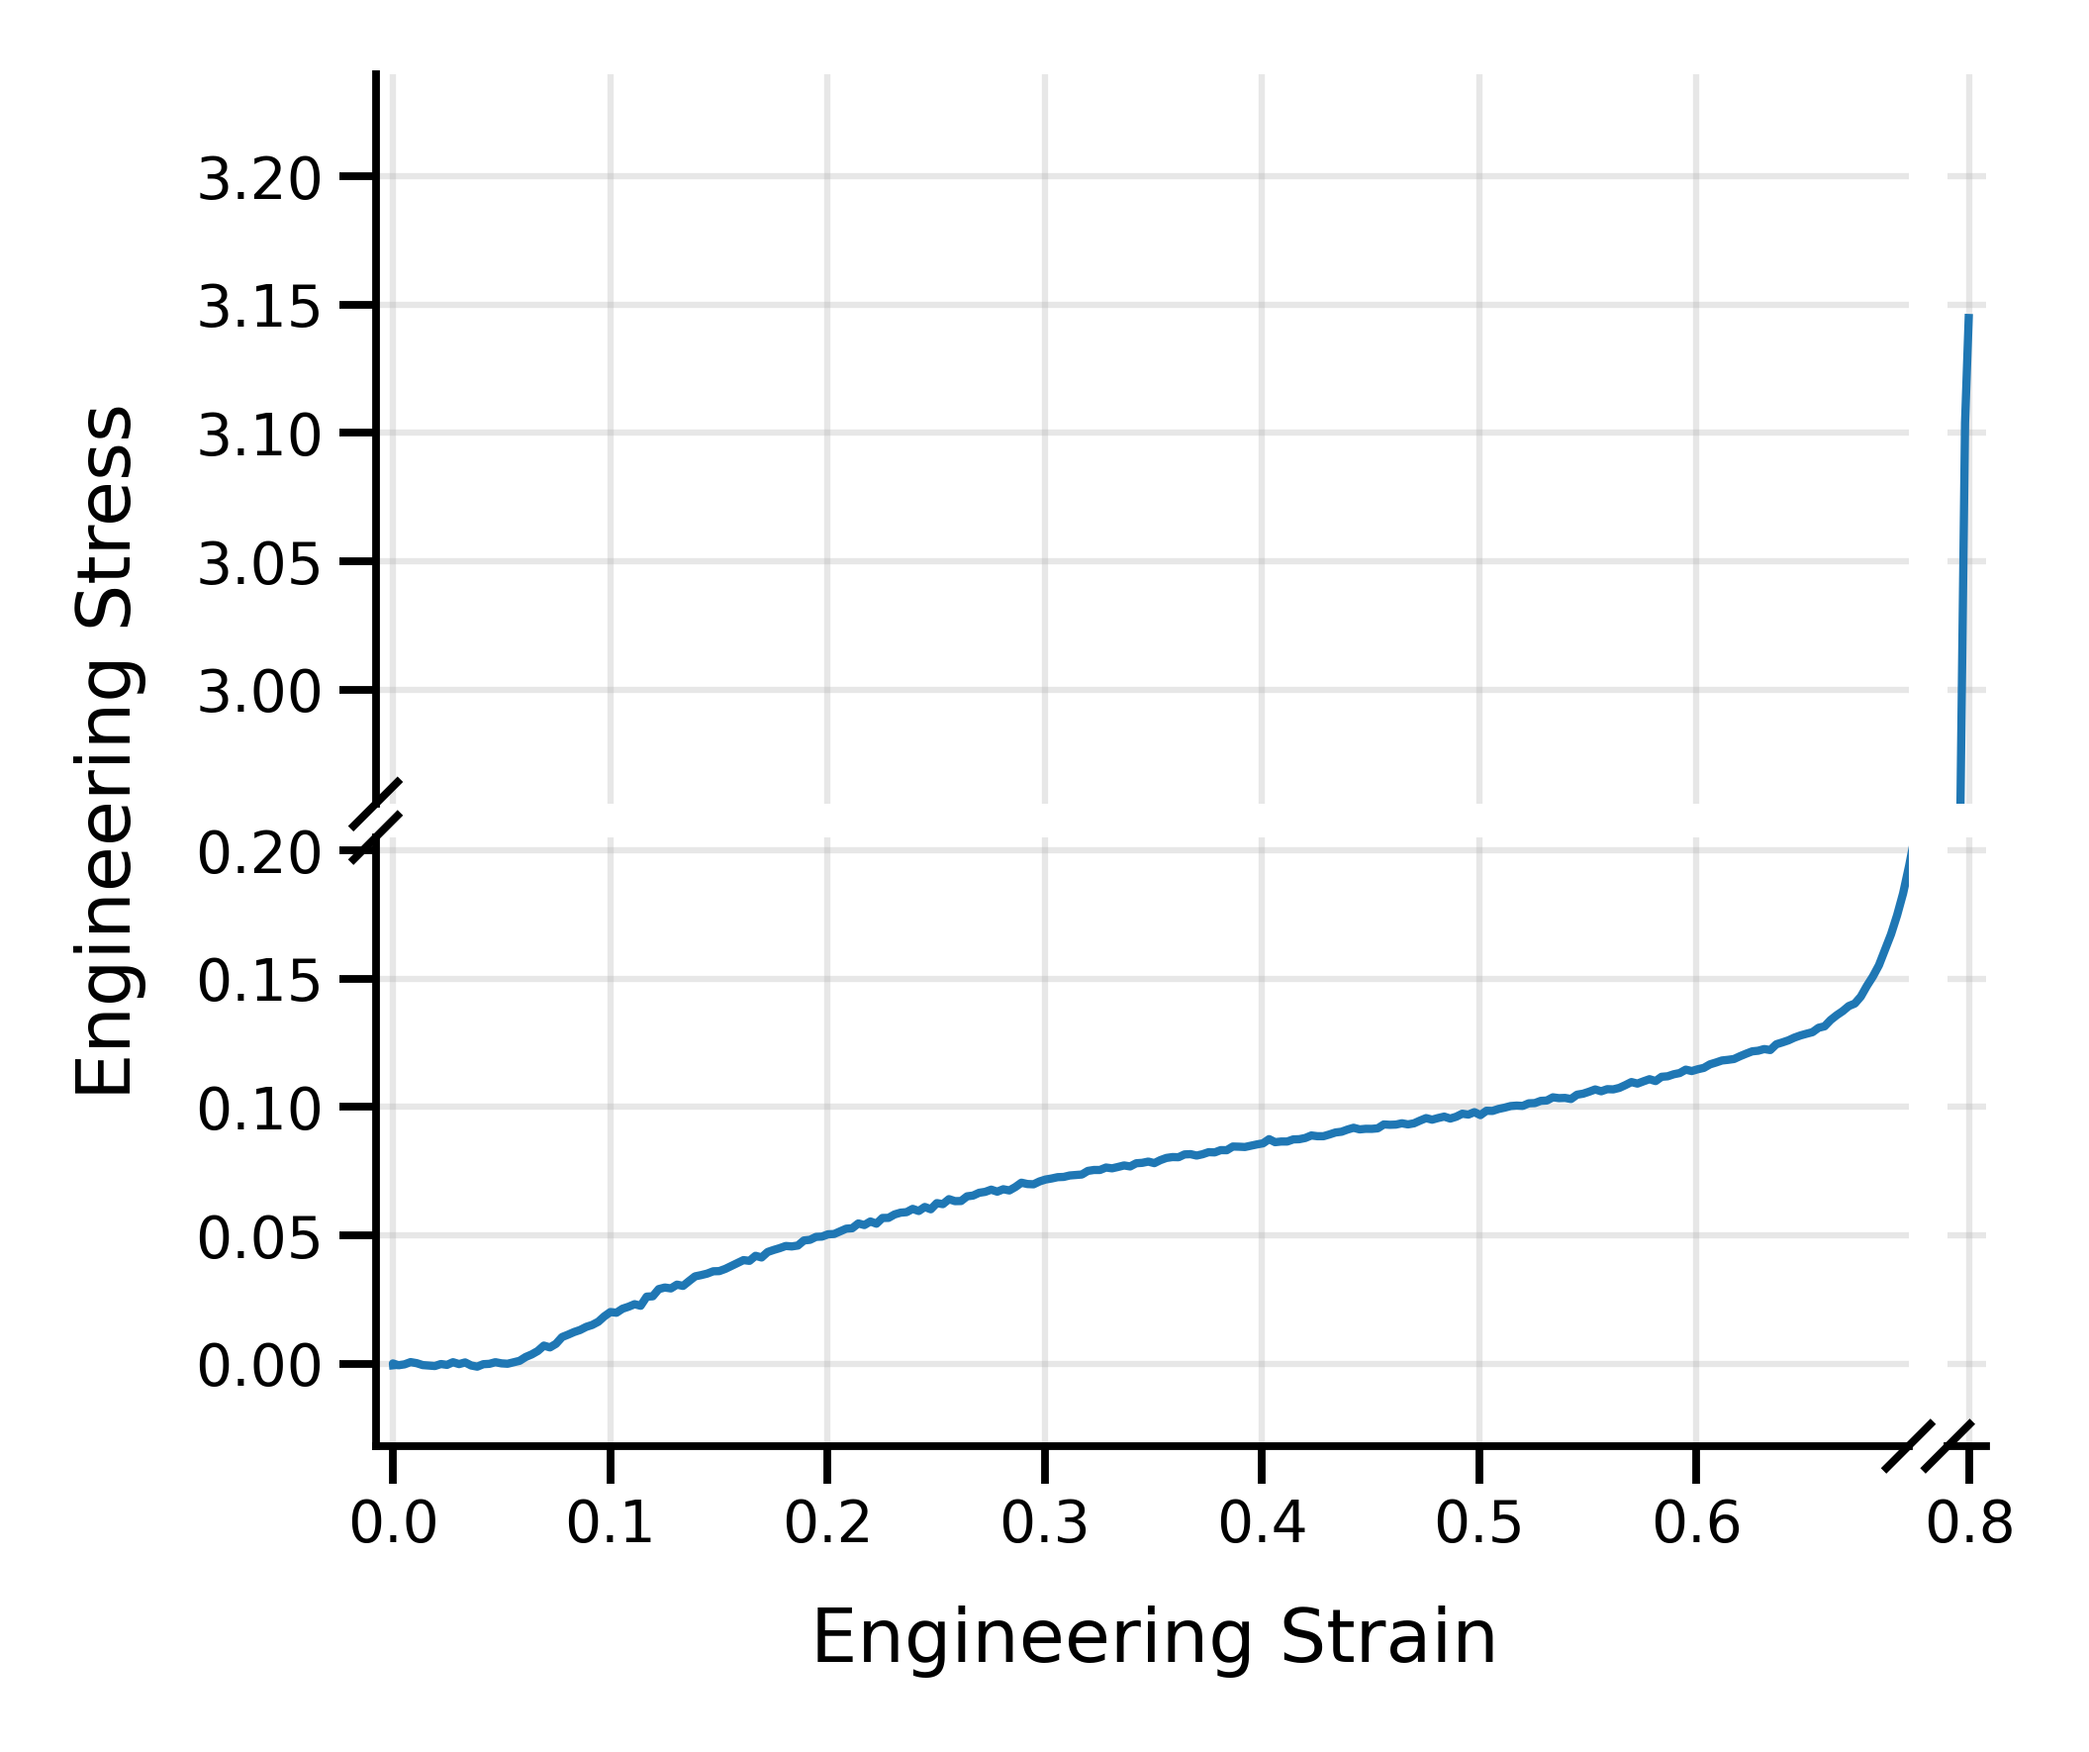
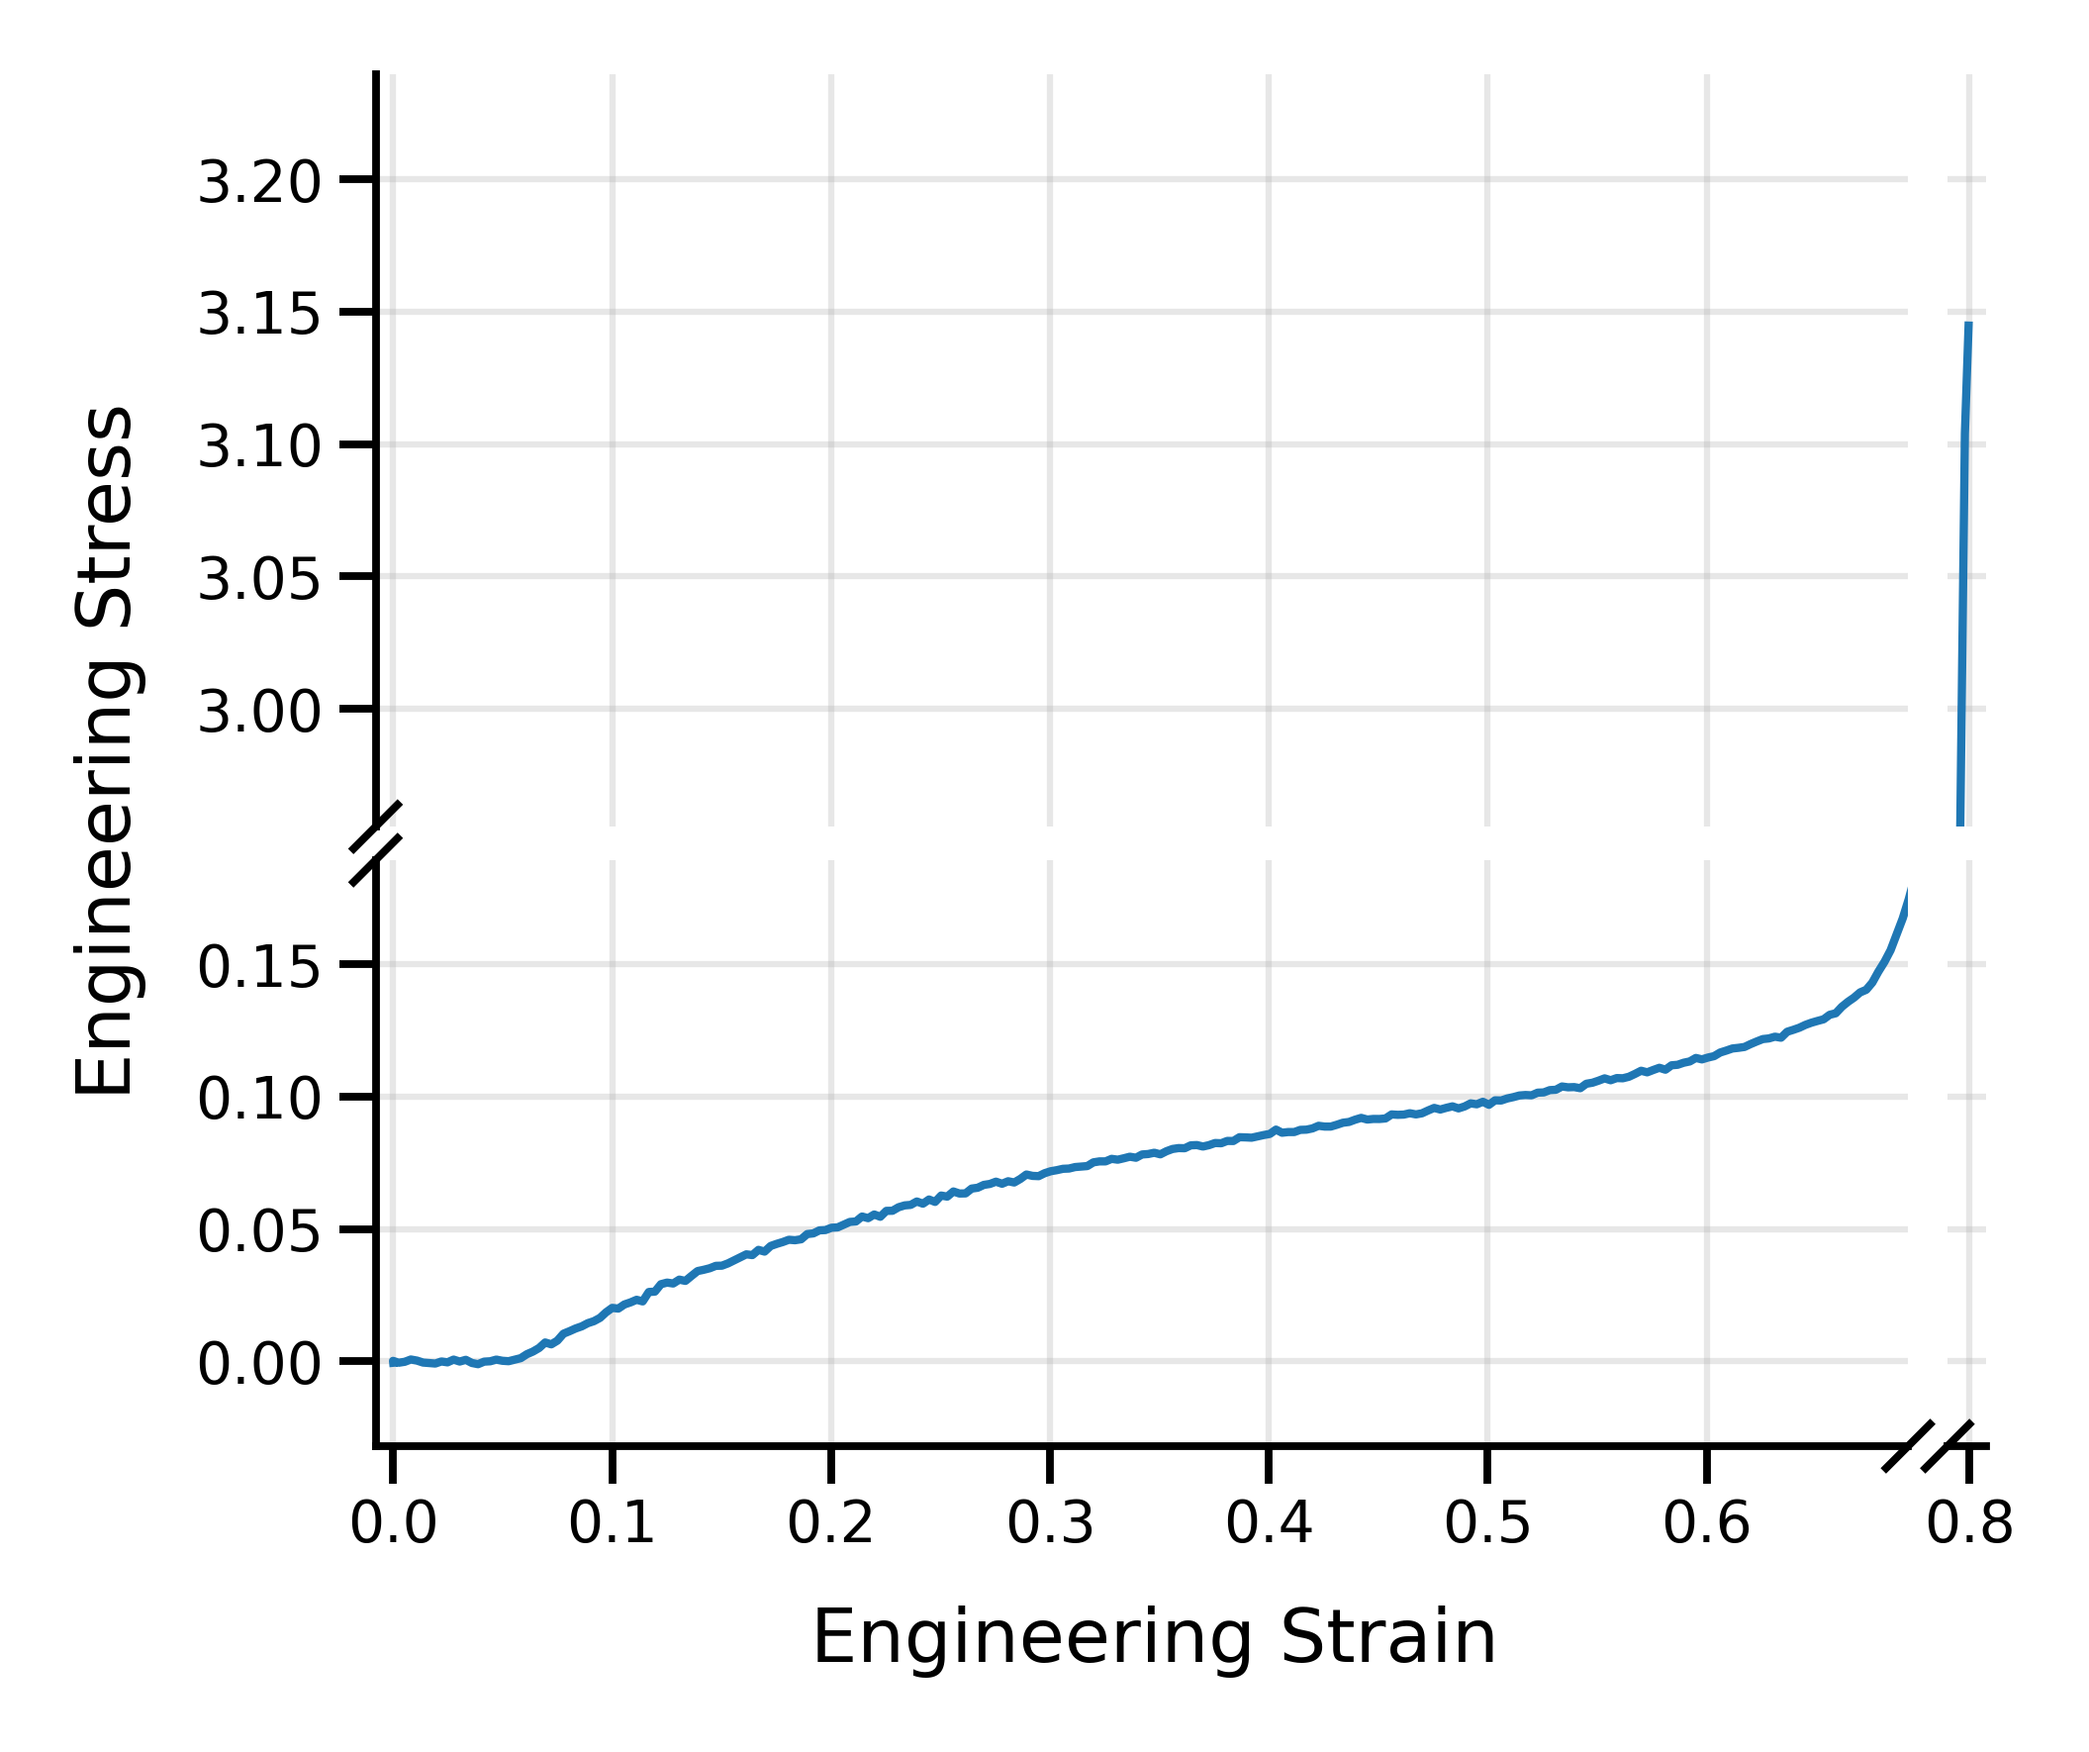
overlayed average quasi-staitc curves

diff --git a/quasi_static_analysis.py b/quasi_static_analysis.py
@@ -355,7 +355,7 @@ def plot_individual_curves(individual: List[Dict], dirs: Dict[str, Path], y_cap_
         use_broken = HAS_BROKENAXES and np.isfinite(peak) and peak > 0
         if use_broken:
             # Y windows
-            low_end = 0.055 * peak
+            low_end = 0.05 * peak
             high_start = 0.95 * peak
             high_end = max(high_start * 1.001, 1.02 * peak)
             # Slightly expand y windows to avoid clipping markers/lines
@@ -442,7 +442,7 @@ def plot_average_curves(averages: Dict[int, Dict], dirs: Dict[str, Path], y_cap_
         use_broken = HAS_BROKENAXES and np.isfinite(peak) and peak > 0
         if use_broken:
             # Y windows
-            low_end = 0.055 * peak
+            low_end = 0.05 * peak
             high_start = 0.95 * peak
             high_end = max(high_start * 1.001, 1.02 * peak)
             # Slightly expand y windows to avoid clipping
@@ -513,6 +513,120 @@ def plot_average_curves(averages: Dict[int, Dict], dirs: Dict[str, Path], y_cap_
         print(f"Saved average curve: {out_png.name}")
 
 
+def plot_average_overlay(averages: Dict[int, Dict], dirs: Dict[str, Path], y_cap_percentile: float | None = None,
+                         final_only: bool = False, loading_only: bool = False):
+    """Plot the three filament mean curves on the same axes."""
+    if not averages:
+        return
+    sns.set_context('talk')
+    palette = {87: 'tab:green', 90: 'tab:orange', 95: 'tab:red'}
+    # Collect curves
+    curves = []
+    all_means = []
+    all_strains = []
+    for filament, info in sorted(averages.items()):
+        strain = np.asarray(info['strain_axis'])
+        mean = np.asarray(info['mean_stress_MPa'])
+        n = info['n']
+        color = palette.get(filament, 'tab:blue')
+        curves.append({'filament': filament, 'strain': strain, 'mean': mean, 'n': n, 'color': color})
+        all_means.append(mean)
+        all_strains.append(strain)
+
+    # Determine peak across all curves (use max of all means)
+    try:
+        peak = float(np.nanmax(np.concatenate(all_means))) if all_means else 0.0
+    except Exception:
+        peak = 0.0
+
+    use_broken = HAS_BROKENAXES and np.isfinite(peak) and peak > 0
+    if use_broken:
+        # Y windows (same as other plots)
+        low_end = 0.05 * peak
+        high_start = 0.95 * peak
+        high_end = max(high_start * 1.001, 1.02 * peak)
+        # Expand slightly to avoid clipping
+        y_span = max(high_end, low_end) - 0.0 if np.isfinite(peak) else 1.0
+        y0a, y0b = _expand_interval(0.0, low_end, y_span, 0.01)
+        y1a, y1b = _expand_interval(high_start, high_end, y_span, 0.01)
+        ylims = ((y0a, y0b), (y1a, y1b))
+
+        # Derive union X windows from where stress lies in the Y windows across all curves
+        x_low_min = np.inf
+        x_low_max = -np.inf
+        x_high_min = np.inf
+        x_high_max = -np.inf
+        low_ok = False
+        high_ok = False
+        try:
+            for c in curves:
+                s_arr = c['strain']
+                m_arr = c['mean']
+                mask_low = (m_arr >= 0.0) & (m_arr <= low_end)
+                mask_high = (m_arr >= high_start) & (m_arr <= high_end)
+                if mask_low.sum() >= 2:
+                    low_ok = True
+                    x_low_min = min(x_low_min, float(np.nanmin(s_arr[mask_low])))
+                    x_low_max = max(x_low_max, float(np.nanmax(s_arr[mask_low])))
+                if mask_high.sum() >= 2:
+                    high_ok = True
+                    x_high_min = min(x_high_min, float(np.nanmin(s_arr[mask_high])))
+                    x_high_max = max(x_high_max, float(np.nanmax(s_arr[mask_high])))
+        except Exception:
+            low_ok = high_ok = False
+
+        # Finalize xlims if both bands are valid and have width
+        xlims = None
+        if low_ok and high_ok and x_low_max > x_low_min and x_high_max > x_high_min:
+            # Slight expansion based on overall strain span
+            try:
+                s_all = np.concatenate(all_strains) if all_strains else np.array([0.0, 1.0])
+                x_span = float(np.nanmax(s_all) - np.nanmin(s_all)) if s_all.size else 1.0
+            except Exception:
+                x_span = 1.0
+            x0a, x0b = _expand_interval(x_low_min, x_low_max, x_span, 0.01)
+            x1a, x1b = _expand_interval(x_high_min, x_high_max, x_span, 0.01)
+            xlims = ((x0a, x0b), (x1a, x1b))
+
+        fig = plt.figure(figsize=(7, 6))
+        if xlims is not None:
+            bax = BrokenAxes(ylims=ylims, xlims=xlims, hspace=0.05, wspace=0.05)
+        else:
+            bax = BrokenAxes(ylims=ylims, hspace=0.05)
+        for c in curves:
+            bax.plot(c['strain'], c['mean'], lw=2.2, color=c['color'], label=f"{c['filament']} (n={c['n']})")
+        # Labels
+        fig.text(0.5, -0.02, 'Engineering Strain', ha='center', va='bottom', fontsize=18)
+        fig.text(-0.02, 0.5, 'Engineering Stress', ha='left', va='center', rotation=90, fontsize=18)
+        bax.tick_params(labelsize=14)
+        bax.grid(True, alpha=0.3)
+        bax.legend(title='Filament')
+    else:
+        fig, ax = plt.subplots(figsize=(7, 6))
+        y_all = []
+        for c in curves:
+            ax.plot(c['strain'], c['mean'], lw=2.2, color=c['color'], label=f"{c['filament']} (n={c['n']})")
+            y_all.append(c['mean'])
+        # Labels and styling
+        fig.text(0.5, 0.0, 'Engineering Strain', ha='center', va='bottom', fontsize=18)
+        fig.text(0.0, 0.5, 'Engineering Stress', ha='left', va='center', rotation=90, fontsize=18)
+        ax.grid(True, alpha=0.3)
+        if y_all:
+            try:
+                y_concat = np.concatenate(y_all)
+                _auto_cap(ax, y_concat, y_cap_percentile)
+            except Exception:
+                pass
+        _add_axes_data_margins(ax)
+        _adjust_fig_margins(fig)
+        ax.legend(title='Filament')
+
+    out_png = dirs['averages'] / 'average_overlay.png'
+    plt.savefig(out_png, dpi=300, bbox_inches='tight', pad_inches=0.25)
+    plt.close(fig)
+    print(f"Saved overlay plot: {out_png.name}")
+
+
 def run_analysis(base: Path, area_mm2: float, gauge_length_mm: float, final_only: bool = True, y_cap_percentile: float | None = None,
                  debug: bool = False, loading_only: bool = True):
     print(f"Scanning quasi-static tests under: {base}")
@@ -533,6 +647,7 @@ def run_analysis(base: Path, area_mm2: float, gauge_length_mm: float, final_only
         print("No averages computed (insufficient data).")
         return
     plot_average_curves(averages, dirs, y_cap_percentile=y_cap_percentile, final_only=final_only, loading_only=loading_only)
+    plot_average_overlay(averages, dirs, y_cap_percentile=y_cap_percentile, final_only=final_only, loading_only=loading_only)
     print(f"All outputs written to: {dirs['root']}\nDone.")
 
 
